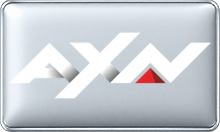
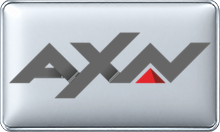
Repair five more BLACK/WHITE wordmarks

Changed region(s): [[0.0273, 0.2424, 0.9545, 0.7576]]

diff --git a/reports/black-white-qc-2026-10-09/batch-007/checkpoint.md b/reports/black-white-qc-2026-10-09/batch-007/checkpoint.md
@@ -1,0 +1,7 @@
+# BLACK/WHITE QC batch 007
+
+- Remote baseline: batch 006 commit `d87e33e4b94f6df0f976f42891e15b7ea990a714`.
+- Repaired 5 WHITE/BLACK variants: FilmCafe, 2 Super, AXN, AXN White and Kanal 1 Sport.
+- FilmCafe's swirl emblem and 2 Super's orange numeral were excluded. AXN red triangles were excluded.
+- Color changes were applied to local source masks in memory and rendered by the pinned production renderer. Transparent source PNGs and MASTER templates were not written.
+- See exact before/after comparisons and hashes. Next: continue flagged candidates.
